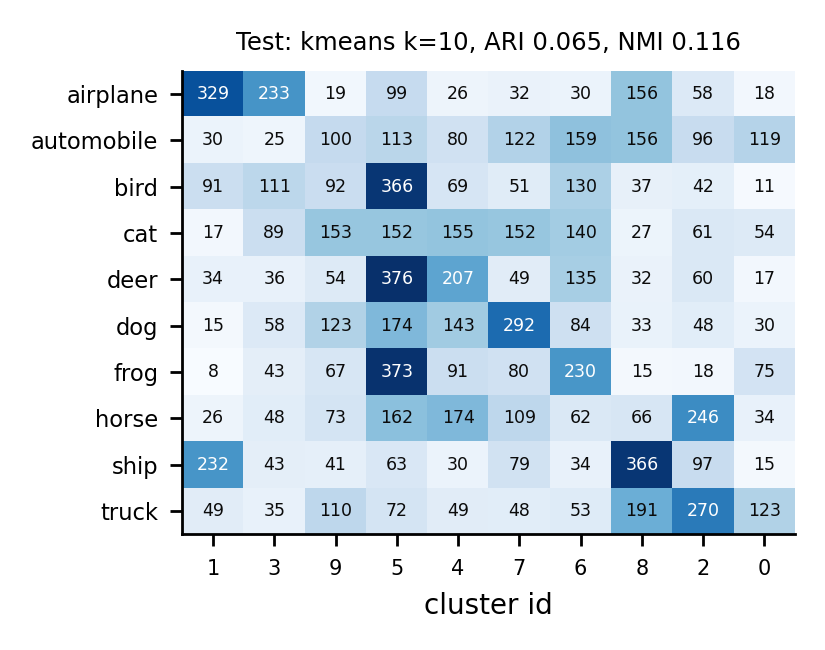
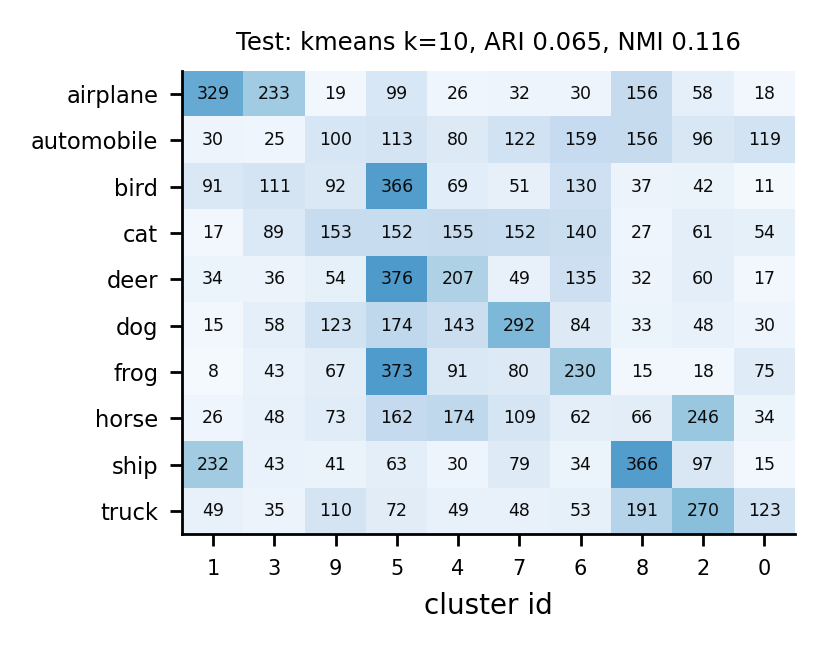
Q4: contingency figure with dark cell labels on a lighter colour scale

diff --git a/Q4/plots.py b/Q4/plots.py
@@ -45,12 +45,11 @@ def contingency_figure():
     order = np.lexsort((-cont.max(0), cont.argmax(0)))
     cont = cont[:, order]
     fig, ax = plt.subplots(figsize=(3.3 if cont.shape[1] <= 12 else 6.9, 2.6))
-    im = ax.imshow(cont, cmap="Blues", aspect="auto")
+    im = ax.imshow(cont, cmap="Blues", aspect="auto", vmin=0, vmax=cont.max() * 1.7)
     for i in range(cont.shape[0]):
         for j in range(cont.shape[1]):
             v = cont[i, j]
-            ax.text(j, i, str(v), ha="center", va="center", fontsize=5,
-                    color="white" if v > cont.max() * 0.55 else "#0b0b0b")
+            ax.text(j, i, str(v), ha="center", va="center", fontsize=5, color="#0b0b0b")
     ax.set_yticks(range(10), CLASSES, fontsize=6.5)
     ax.set_xticks(range(cont.shape[1]), [str(o) for o in order], fontsize=6)
     ax.set_xlabel("cluster id")
